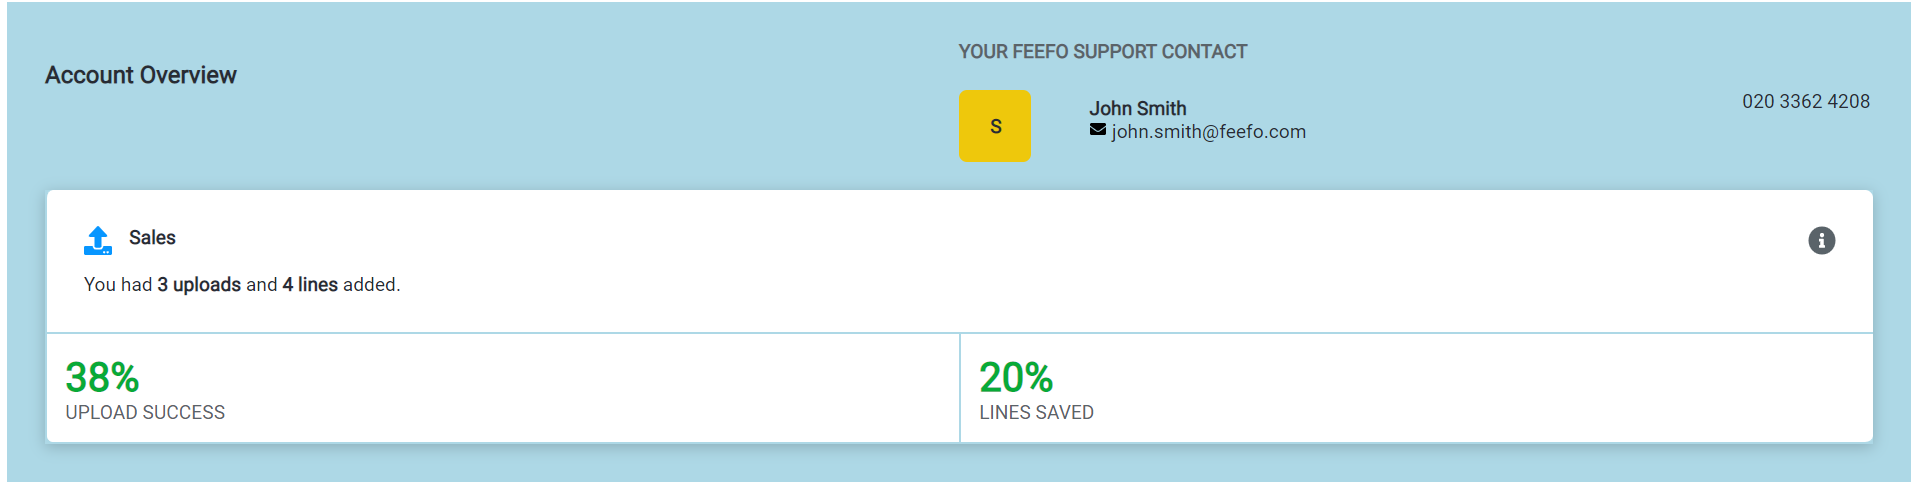
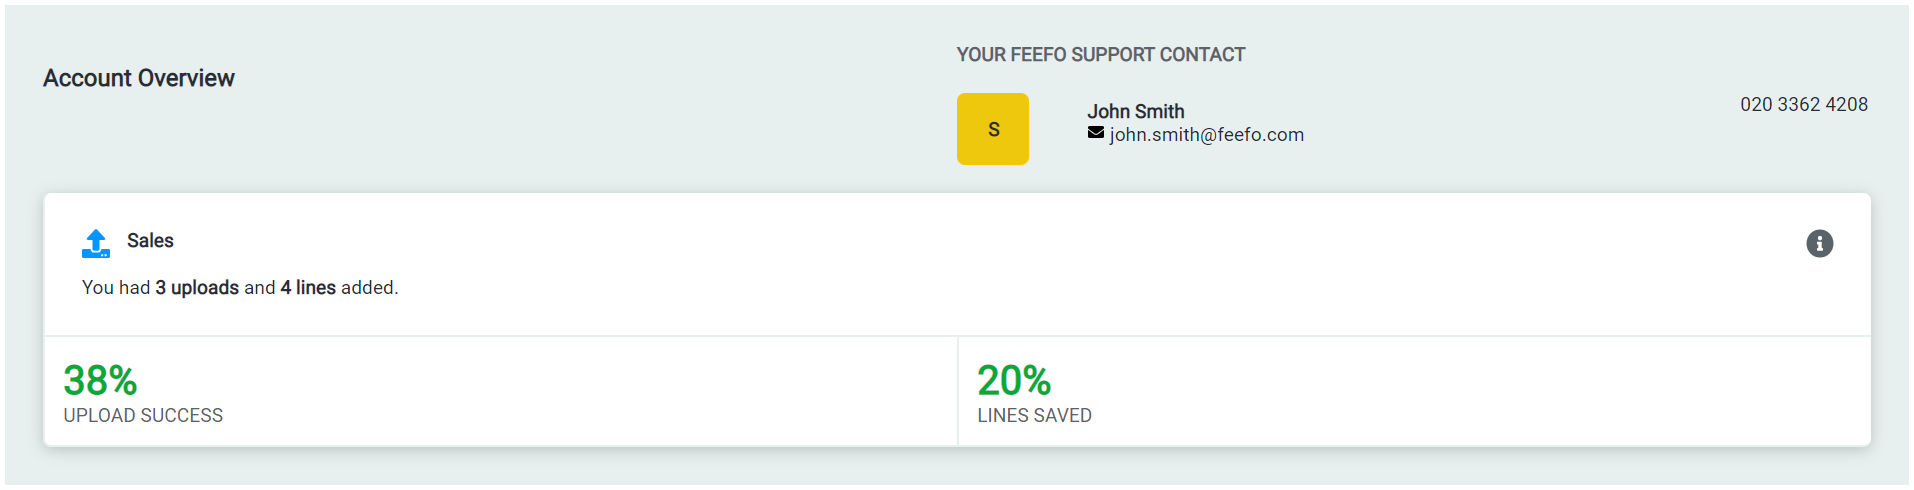
Changed background-color

diff --git a/src/components/styles/content.js b/src/components/styles/content.js
@@ -1,5 +1,6 @@
 import styled from 'styled-components';
 
+const lightGrey = '#E7F0EE';
 const blue = '#0796FF';
 const grey = '#5A6369';
 const dark = '#282c34';
@@ -11,7 +12,7 @@ const borderRadius = '.5rem';
 /* MAIN */
 export const MainWrapper = styled.section`
     padding: 2%;
-    background-color: lightblue;
+    background-color: ${lightGrey};
     font-family: 'Roboto', sans-serif;
 `;
 
@@ -79,12 +80,13 @@ export const SquareInterior = styled.div`
 /* TILES */
 export const TileWrapper = styled.div`
     box-shadow: 0px 3px 15px rgba(0,0,0,0.2);
+    border-radius: ${borderRadius};
 `;
 
 const Tile = styled.div`
     background-color: white;
-    border-bottom: lightblue solid 2px;
-    border-left: lightblue solid 2px;
+    border-bottom: ${lightGrey} solid 2px;
+    border-left: ${lightGrey} solid 2px;
     padding: 2%;
     display: 'flex';
 `;
